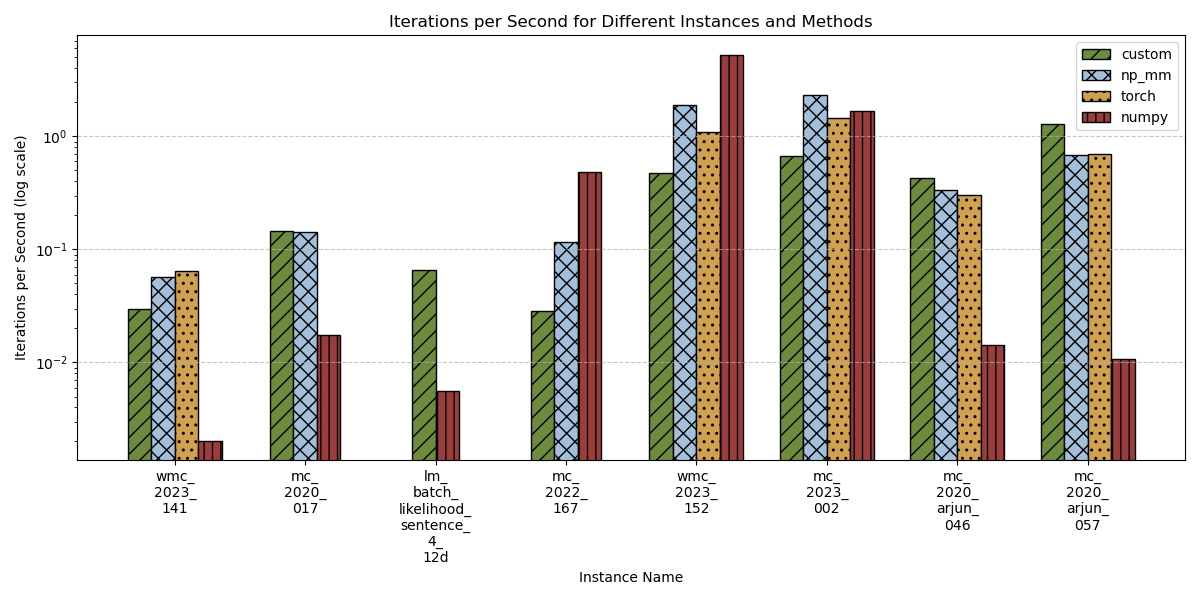
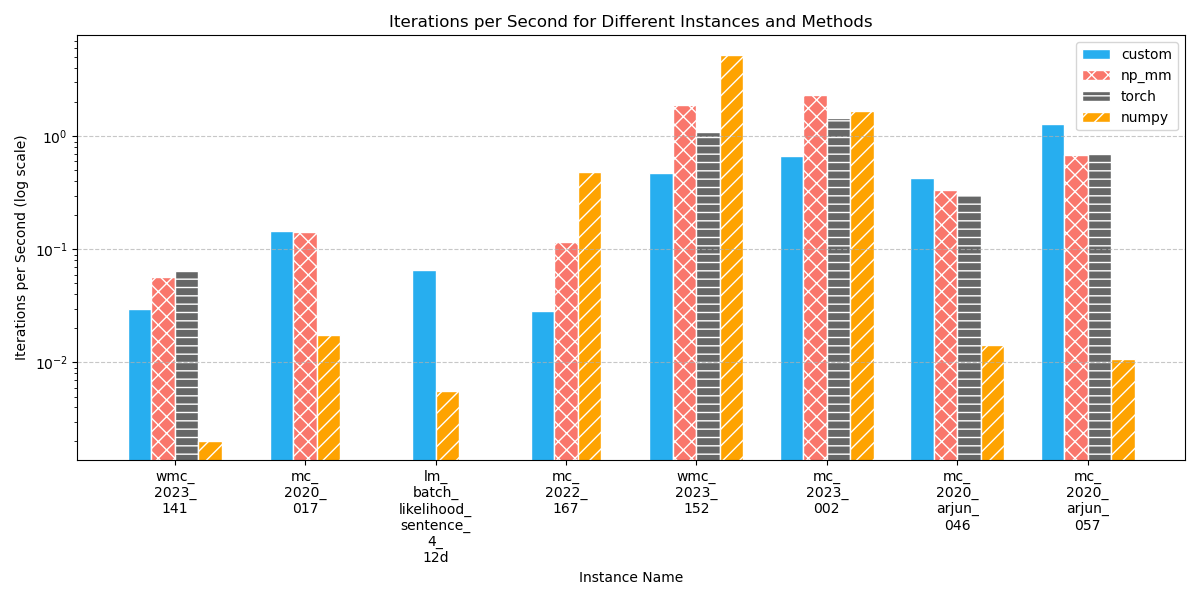
Plots

diff --git a/plots_dict.py b/plots_dict.py
@@ -1,6 +1,7 @@
 import matplotlib.pyplot as plt
 import numpy as np
 import json
+import re
 
 # Sample dictionary with multiple instances
 def load_dictionary(filename):
@@ -19,8 +20,8 @@ def dynamic_normal_plot(filename):
     instance_names = list(data.keys())
     timing_methods = ["custom", "np_mm", "torch", "numpy"]
 
-    colors = ["#6C8B3C", "#A3BFD9", "#D1A14D", "#9C3D3D"]
-    hatch_patterns = ["//", "xx", "..", "||"]
+    colors = ["#27AEEF", "#F9776C", "#666767", "#FEA301"]
+    hatch_patterns = ["", "xx", "--", "//"]
 
     def split_instance_name(name):
         return '_\n'.join(name.split('_'))
@@ -36,7 +37,7 @@ def dynamic_normal_plot(filename):
             plt.bar(
                 bar_x, val, width=0.18,
                 label=method if instance_idx == 0 else None,
-                color=colors[i], hatch=hatch_patterns[i], edgecolor="black"
+                color=colors[i], hatch=hatch_patterns[i], edgecolor="white"
             )
 
     split_names = [split_instance_name(name) for name in instance_names]
@@ -75,8 +76,8 @@ def normal_plot(filename):
     bar_width = 0.2  # Adjust for spacing
 
     # Colors and hatch patterns for each method
-    colors = ["#6C8B3C", "#A3BFD9", "#D1A14D", "#9C3D3D"] 
-    hatch_patterns = ["//", "xx", "..", "||"] 
+    colors = ["#27AEEF", "#F9776C", "#666767", "#FEA301"] 
+    hatch_patterns = ["", "xx", "--", "//"]
 
     # Function to split instance names for better readability
     def split_instance_name(name):
@@ -89,7 +90,7 @@ def normal_plot(filename):
     for i, (method, hatch) in enumerate(zip(timing_methods, hatch_patterns)):
         plt.bar(
             x + i * bar_width, times[:, i], width=bar_width,
-            label=method, color=colors[i], hatch=hatch, edgecolor="black"
+            label=method, color=colors[i], hatch=hatch, edgecolor="white"
         )
 
     # Split the instance names for readability
@@ -127,25 +128,29 @@ def plot_threads():
     backends = list(next(iter(data["1"].values())).keys())  # Extract backend names
     
     colors = ["#D84B8A", "#7BB9FF", "#FF9F00"] # Custom colors for different backends
-    hatch_patterns = ["//", "xx", ".."]  # Patterns for accessibility
+    hatch_patterns = ["", "xx", "--"]  # Patterns for accessibility
     bar_width = 0.2  # Width of each bar
 
     # Create the plot
-    plt.figure(figsize=(10, 6))
-
+    plt.figure(figsize=(8, 6))
+    offset = (bar_width * (len(backends) - 1)) / 2
+    
     for backend_idx, backend in enumerate(backends):
         backend_values = [data[str(thread_number)].get(problem_name, {}).get(backend, 0) for thread_number in thread_numbers]
         
         # Plotting the bars
+        x_positions = np.array(thread_numbers) - offset + backend_idx * bar_width
         plt.bar(
-            np.array(thread_numbers) + backend_idx * bar_width - 0.25, backend_values, width=bar_width,
-            label=f"{backend}", color=colors[backend_idx], hatch=hatch_patterns[backend_idx], edgecolor="black"
+
+            x_positions, backend_values, width=bar_width,
+            label=f"{backend}", color=colors[backend_idx], hatch=hatch_patterns[backend_idx], edgecolor="white"
         )
 
     # Set labels and title
     plt.xlabel("Number of Threads")
     plt.ylabel("Iterations per Second")
     plt.title(f"Iterations per Second for {problem_name} Across Different Backends and Threads")
+
     
     # Set log scale for Y-axis
     #plt.yscale('log')
@@ -164,5 +169,74 @@ def plot_threads():
     # Show the plot
     plt.savefig(f"threads.png", format="png")
 
+def plot_flops():
+
+    data = load_dictionary("flop_dict.txt")
+
+    colors = {
+    "custom": "#27AEEF",    # greenish
+    "np_mm": "#F9776C",     # blueish
+    "torch": "#666767",     # reddish
+    "numpy": "#FEA301"      # yellowish
+}
+
+    hatches = {
+        "custom": "",
+        "np_mm": "xx",
+        "torch": "--",
+        "numpy": "//"
+    }
+
+    for formatstring, flop_dict in data.items():
+        flops = []
+        backend_results = {
+            "custom": [],
+            "np_mm": [],
+            "torch": [],
+            "numpy": []
+        }
+
+        for flop, results in flop_dict.items():
+            values = [results[backend] for backend in backend_results]
+            if not all(v == 0 for v in values):
+                flops.append(float(flop))
+                for backend in backend_results:
+                    backend_results[backend].append(results[backend])
+
+        sorted_indices = np.argsort(flops)
+        flops_sorted = np.array(flops)[sorted_indices]
+        for backend in backend_results:
+            backend_results[backend] = np.array(backend_results[backend])[sorted_indices]
+
+        bar_width = 0.2
+        x = np.arange(len(flops_sorted))
+        plt.figure(figsize=(12, 6))
+
+        for i, backend in enumerate(backend_results):
+            bars = plt.bar(
+                x + i * bar_width,
+                backend_results[backend],
+                width=bar_width,
+                label=backend,
+                color=colors[backend],
+                hatch=hatches[backend],
+                edgecolor="white"
+            )
+
+        plt.yscale('log')
+        plt.xticks(x + 1.5 * bar_width, [f"{f:.2f}" for f in flops_sorted], rotation=45)
+        plt.xlabel("FLOPs")
+        plt.ylabel("Iterations per second (log scale)")
+        plt.title(f"Iterations per second for '{formatstring}'")
+        plt.legend()
+        plt.tight_layout()
+
+        # Create a safe filename
+        safe_name = re.sub(r'[^a-zA-Z0-9_]', '_', formatstring)
+        plt.savefig(f"{safe_name}.png", dpi=300)
+
+
 #dynamic_normal_plot("e_b_double.txt")
 plot_threads()
+for file in ["e_b_double.txt", "e_b.txt"]:
+    dynamic_normal_plot(file)
